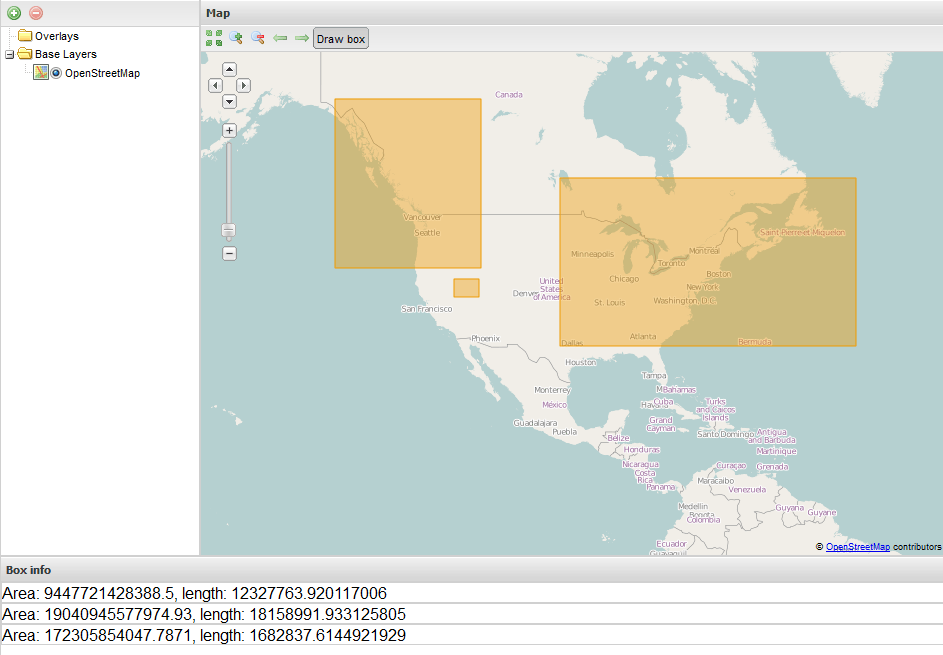
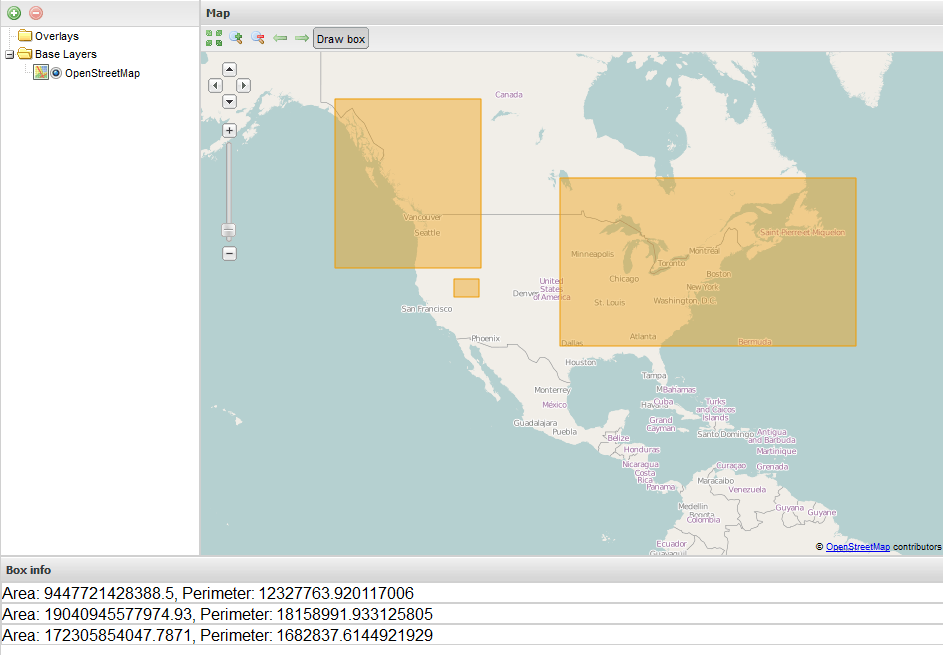
Resolving all todos (#SUITE-1174)

Changed region(s): [[0.1845, 0.8855, 0.4613, 0.9771]]

diff --git a/docs/usermanual/source/apps/plugincreate/script/actionoutput_app.js b/docs/usermanual/source/apps/plugincreate/script/actionoutput_app.js
@@ -13,12 +13,12 @@
  * @require plugins/RemoveLayer.js
  * @require RowExpander.js
  * @require plugins/DrawBox.js
- * @requires GeoExt/widgets/Action.js
- * @requires OpenLayers/Control/DrawFeature.js
- * @requires OpenLayers/Handler/RegularPolygon.js
- * @requires OpenLayers/Layer/Vector.js
- * @requires OpenLayers/Renderer/SVG.js
- * @requires OpenLayers/Renderer/VML.js
+ * @require GeoExt/widgets/Action.js
+ * @require OpenLayers/Control/DrawFeature.js
+ * @require OpenLayers/Handler/RegularPolygon.js
+ * @require OpenLayers/Layer/Vector.js
+ * @require OpenLayers/Renderer/SVG.js
+ * @require OpenLayers/Renderer/VML.js
  * @require plugins/BoxInfo.js
  */
 

diff --git a/docs/usermanual/source/apps/plugincreate/script/output_app.js b/docs/usermanual/source/apps/plugincreate/script/output_app.js
@@ -13,12 +13,12 @@
  * @require plugins/RemoveLayer.js
  * @require RowExpander.js
  * @require plugins/DrawBox.js
- * @requires GeoExt/widgets/Action.js
- * @requires OpenLayers/Control/DrawFeature.js
- * @requires OpenLayers/Handler/RegularPolygon.js
- * @requires OpenLayers/Layer/Vector.js
- * @requires OpenLayers/Renderer/SVG.js
- * @requires OpenLayers/Renderer/VML.js
+ * @require GeoExt/widgets/Action.js
+ * @require OpenLayers/Control/DrawFeature.js
+ * @require OpenLayers/Handler/RegularPolygon.js
+ * @require OpenLayers/Layer/Vector.js
+ * @require OpenLayers/Renderer/SVG.js
+ * @require OpenLayers/Renderer/VML.js
  * @require plugins/BoxInfo.js
  */
 

diff --git a/docs/usermanual/source/apps/plugincreate/script/action_app.js b/docs/usermanual/source/apps/plugincreate/script/action_app.js
@@ -13,12 +13,12 @@
  * @require plugins/RemoveLayer.js
  * @require RowExpander.js
  * @require plugins/DrawBox.js
- * @requires GeoExt/widgets/Action.js
- * @requires OpenLayers/Control/DrawFeature.js
- * @requires OpenLayers/Handler/RegularPolygon.js
- * @requires OpenLayers/Layer/Vector.js
- * @requires OpenLayers/Renderer/SVG.js
- * @requires OpenLayers/Renderer/VML.js
+ * @require GeoExt/widgets/Action.js
+ * @require OpenLayers/Control/DrawFeature.js
+ * @require OpenLayers/Handler/RegularPolygon.js
+ * @require OpenLayers/Layer/Vector.js
+ * @require OpenLayers/Renderer/SVG.js
+ * @require OpenLayers/Renderer/VML.js
  */
 
 var app = new gxp.Viewer({

diff --git a/docs/usermanual/source/apps/plugincreate/script/output_BoxInfo.js b/docs/usermanual/source/apps/plugincreate/script/output_BoxInfo.js
@@ -6,7 +6,7 @@ myapp.plugins.BoxInfo = Ext.extend(gxp.plugins.Tool, {
 
   boxTool: null,
 
-  tplText: 'Area: {area}, length: {length}',
+  tplText: 'Area: {area}, Perimeter: {length}',
 
   title: "Box info",
 

diff --git a/docs/usermanual/source/apps/plugincreate/script/actionoutput_DrawBox.js b/docs/usermanual/source/apps/plugincreate/script/actionoutput_DrawBox.js
@@ -1,7 +1,7 @@
 /**
-* @requires plugins/Tool.js
-* @requires GeoExt/widgets/Popup.js
-*/
+ * @require plugins/Tool.js
+ * @require GeoExt/widgets/Popup.js
+ */
 
 Ext.ns("myapp.plugins");
 

diff --git a/docs/usermanual/source/apps/plugincreate/script/action_DrawBox.js b/docs/usermanual/source/apps/plugincreate/script/action_DrawBox.js
@@ -1,6 +1,6 @@
 /**
-* @requires plugins/Tool.js
-*/
+ * @require plugins/Tool.js
+ */
 
 Ext.ns("myapp.plugins");
 

diff --git a/docs/usermanual/source/apps/plugincreate/script/action_DrawBox_initial.js b/docs/usermanual/source/apps/plugincreate/script/action_DrawBox_initial.js
@@ -1,6 +1,6 @@
 /**
-* @requires plugins/Tool.js
-*/
+ * @require plugins/Tool.js
+ */
 
 Ext.ns("myapp.plugins");
 

diff --git a/docs/usermanual/source/apps/plugincreate/action.rst b/docs/usermanual/source/apps/plugincreate/action.rst
@@ -41,17 +41,11 @@ Creating basic plugin
    .. literalinclude:: script/action_DrawBox_initial.js
       :language: javascript
 
-   This code wraps an `OpenLayers.Control.DrawFeature <http://dev.openlayers.org/docs/files/OpenLayers/Control/DrawFeature-js.html>`_ that will allow the user to draw rectangular geometries on the map.
-
-   .. todo:: What specific part of the code is the part that wraps the DrawFeature action?
-
    .. note:: Read more about the `Tool.js plugin <../../sdk-api/lib/plugins/Tool.html>`_ in the SDK API.
 
    As for user interaction, this code will only add a button to the toolbar with the text "Draw box". This button will not have any any functionality.
 
-   .. note:: This example sets a namespace for the plugin called "myapp", but this can be changed, so long as it is consistent throughout.
-
-   .. todo:: What about the ptype? If you change the namespace, does the ptype need to change to namespace_drawbox?
+   .. note:: This example sets a namespace for the plugin called "myapp", but this can be changed, so long as it is consistent throughout. In addition, it is recommended to include a prefix on the name of the ptype that matches the namespace, but this is not required.
 
 
 Connect plugin to application
@@ -93,25 +87,23 @@ Adding functionality
       :language: javascript
       :lines: 11-35
 
-   This code creates a vector layer which will keep hold of the boxes that are being drawn by the ``OpenLayers.DrawFeature`` control. The ``handlerOptions`` specified ensure that only rectangular geometries can be drawn.
+   This code wraps an `OpenLayers.Control.DrawFeature <http://dev.openlayers.org/docs/files/OpenLayers/Control/DrawFeature-js.html>`_ that will allow the user to draw rectangular geometries on the map. It also creates a vector layer which will keep hold of the boxes that are being drawn by the ``OpenLayers.Control.DrawFeature`` control. The ``handlerOptions`` specified ensure that only rectangular geometries can be drawn.
 
-#. The drawn layer should remain visible, even when new layers get added to the map. To accomplish this, the ``raiseLayer`` function is called as a listener for the ``addlayer`` event on the map. This function responds by raising the layer. Add the following code to the :file:`DrawBox.js`:
+#. The drawn layer should remain visible, even when new layers get added to the map. To accomplish this, the ``raiseLayer`` function is called as a listener for the ``addlayer`` event on the map. This function raises the layer by calling setLayerIndex and setting the layer index to the highest number (the number of layers in the map). In this way, it will ensure that this layer is on top (drawn last).
+
+Add the following code to the :file:`DrawBox.js`:
 
    .. literalinclude:: script/action_DrawBox.js
       :language: javascript
       :lines: 37-42
 
-   .. todo:: Is "raising" the correct word here? How/where exactly is this code doing the raising?
-
-#. Since these functions depend on more classes from OpenLayers and GeoExt, more dependencies are needed. Add the following to the :file:`src/app/app.js`:
+#. Since these functions depend on more classes from OpenLayers and GeoExt, more dependencies are needed. Add the following to the top of :file:`src/app/app.js`:
 
    .. literalinclude:: script/action_app.js
       :language: javascript
       :lines: 16-21
 
-   .. todo:: Why exactly are these dependencies needed? How would one know that they are needed?
-
-#. Restart the SDK to and reload the application in the browser to see the code in effect.
+#. Restart the SDK and reload the application in the browser to see the code in effect.
 
    .. figure:: img/action_drawingboxes.png
 

diff --git a/docs/usermanual/source/apps/plugincreate/output.rst b/docs/usermanual/source/apps/plugincreate/output.rst
@@ -5,8 +5,6 @@ Plugin with output only
 
 This example will create a new plugin that will display the length and area of all the boxes that are drawn on the map. 
 
-.. todo:: Technically, doesn't this plugin have an output?
-
 Creating a basic panel
 ----------------------
 
@@ -68,47 +66,35 @@ Adding dynamic content
 
    .. literalinclude:: script/output_BoxInfo.js
       :language: javascript
-      :lines: 7-33
+      :lines: 7-26
 
-   In the above code, the ``boxTool`` string identifier finds the boxInfo tool so that it can get a reference to its ``boxLayer`` property. When a feature gets added to the ``boxLayer``, the code adds a panel to the output container. The content is generated using an ``Ext.Template``.
+   In the above code, the ``boxTool`` string identifier finds the DrawBox tool so that it can get a reference to its ``boxLayer`` property. 
 
-   .. todo:: I wish this could be broken down into more discrete steps.
+#. Add the following code right beneath what was added in the previous step:
+
+   .. literalinclude:: script/output_BoxInfo.js
+      :language: javascript
+      :lines: 28-33
+
+   When a feature gets added to the ``boxLayer``, the code adds a panel to the output container. The content is generated using an ``Ext.Template``.
 
 #. Reload the application as before. Draw a few boxes on the map and verify that container at the bottom will display information about the boxes:
 
    .. figure:: img/output_boxinfo_arealength.png
 
-      *Box info showing area and length*
+      *Box info showing area and perimeter*
 
-Image showing boxes and the panel at bottom.
+   .. note:: To adjust the output, use the ``tplText`` parameter and the ``outputConfig`` section of the tool in :file:`src/app/app.js`. For example, the following code would display only the area and turn off autoscrolling:
 
-   .. todo:: Just length? Not length and width? Which dimension is "length"? Seems like it's just whichever side is longest.
+      .. code-block:: javascript
+
+         ptype: "myapp_boxinfo",
+         boxTool: "drawbox",
+         tplText: "AREA: {area}",
+         outputTarget: "southpanel",
+         outputConfig: {
+           title: "Box info",
+           autoScroll: false
+         }
 
 Download the :download:`BoxInfo.js <script/output_BoxInfo.js>` and :download:`app.js <script/output_app.js>` files created in this section.
-
-
-Bonus: Adjusting output
------------------------
-
-#. To adjust the output, use the ``tplText`` parameter and the ``outputConfig`` section of the tool in :file:`src/app/app.js`. For example, the following code will display only the area and turn off autoscrolling:
-
-   .. code-block:: javascript
-
-      {
-        ptype: "myapp_boxinfo",
-        boxTool: "drawbox",
-        tplText: "AREA: {area}",
-        outputTarget: "southpanel",
-        outputConfig: {
-          title: "My title",
-          autoScroll: false
-        }
-      }
-
-   .. todo:: img/output_boxinfo_alt.png
-
-      *Box info showing alternate output*
-
-   .. todo:: autoScroll: false? No length? "My title"? This seems less improved than the previous tplText output. Tempted to remove/alter this example, or at least the screenshot.
-
-

diff --git a/docs/usermanual/source/apps/plugincreate/actionoutput.rst b/docs/usermanual/source/apps/plugincreate/actionoutput.rst
@@ -33,13 +33,11 @@ This final example will modify the DrawBox control created previously to also di
       :lines: 79-84
       :emphasize-lines: 82
 
-#. Restart the SDK and reload the application in the browser. Test the functionality by drawing boxes. After drawing a box there will now be a popup at the feature's location containing the area of the box drawn:
+#. Restart the SDK and reload the application in the browser. Test the functionality by drawing boxes. After drawing a box there will now be a popup at the feature's location containing the area of the box drawn. The units are in meters, as the geometry is using Google Web Mercator projection.
 
-.. todo:: image showing this
+   .. figure:: img/actionoutput_popup.png
 
-.. todo:: What units is this info in? How would we know this?
-
-.. todo:: Once code is verified, include complete scripts as separate files and pull code in from them.
+      *Popup showing area of drawn box*
 
 Download the :download:`DrawBox.js <script/actionoutput_DrawBox.js>` and :download:`app.js <script/actionoutput_app.js>` files created in this section.  Also, download :download:`BoxInfo.js <script/output_BoxInfo.js>` from the previous section to have all the files needed to recreate this application.
 

diff --git a/docs/usermanual/source/apps/plugincreate/index.rst b/docs/usermanual/source/apps/plugincreate/index.rst
@@ -14,6 +14,10 @@ Three examples will be shown:
 
 These examples will be based around the case of a user drawing boxes on the map and getting information about those boxes.
 
+.. figure:: img/action_drawingboxes.png
+
+   *Drawing boxes with a custom SDK plugin*
+
 .. toctree::
    :maxdepth: 2
 
